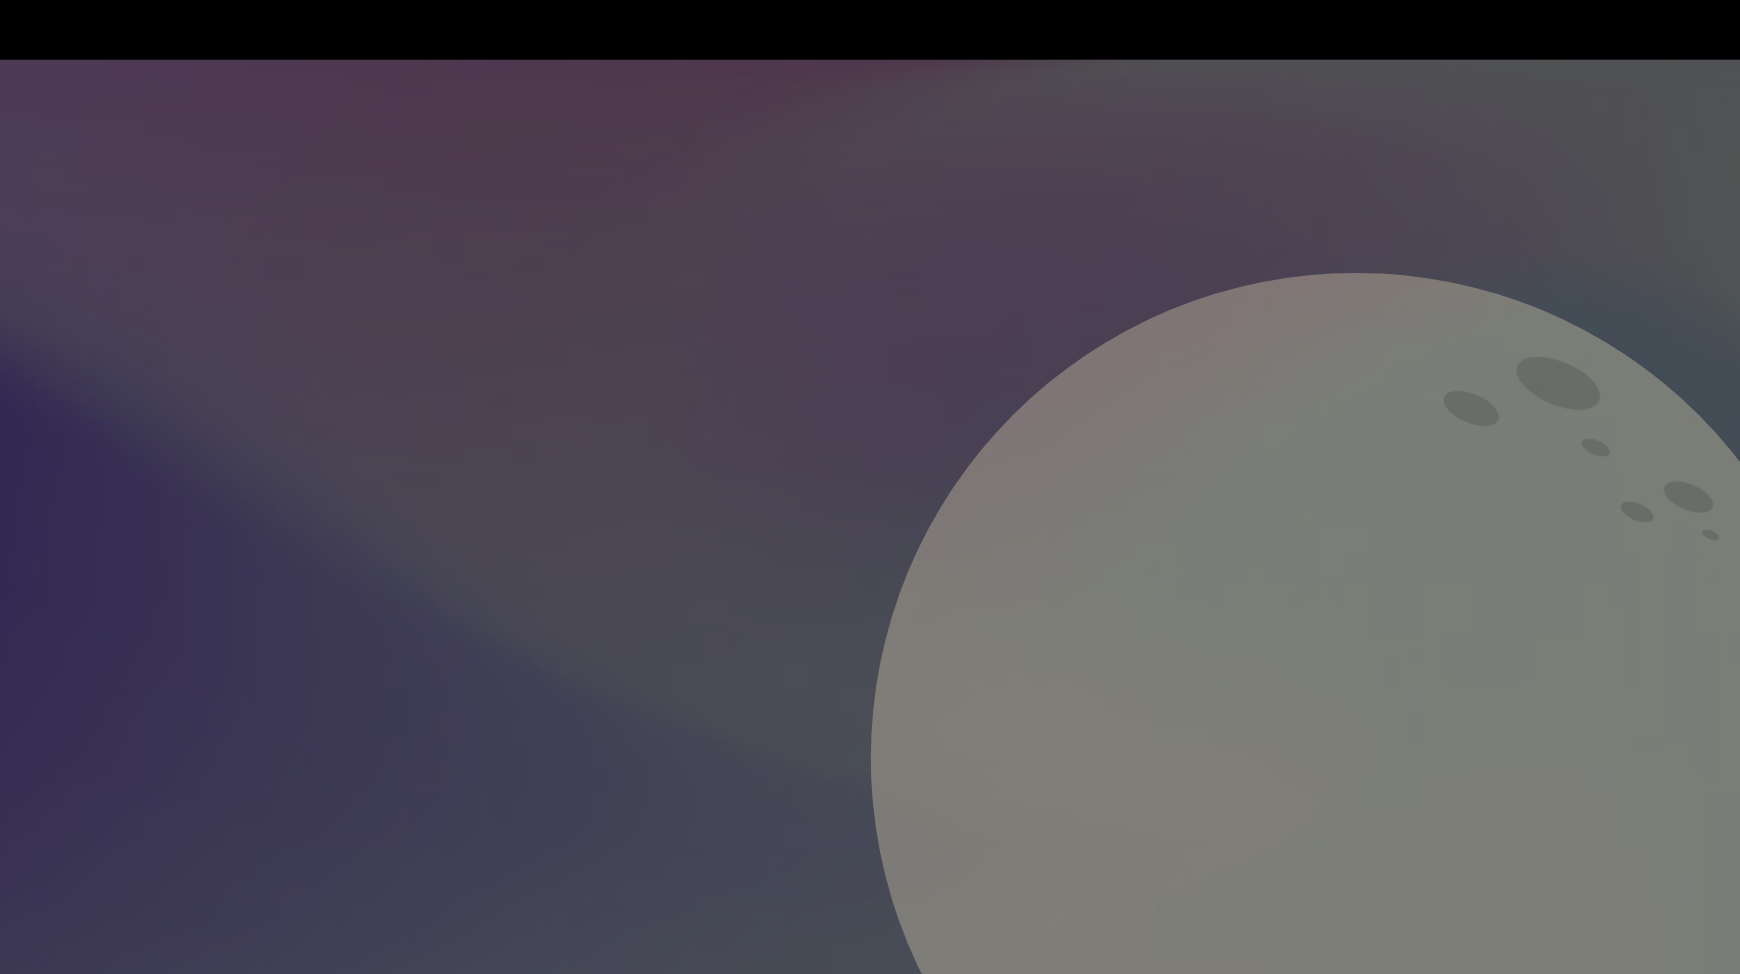
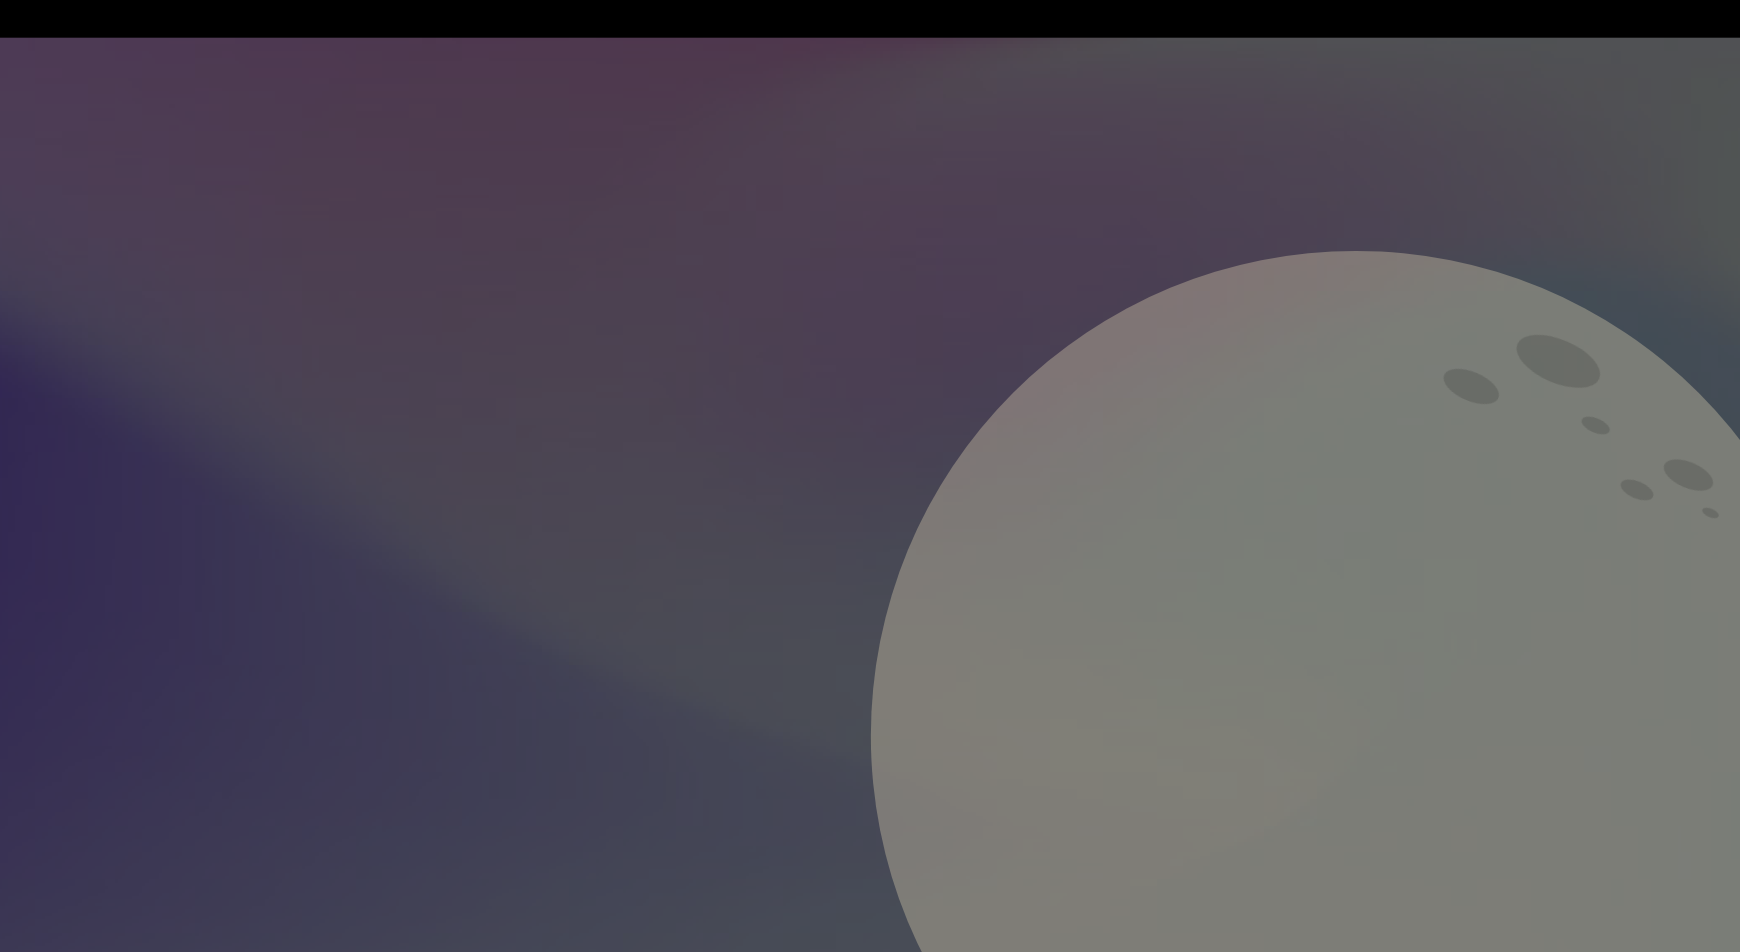
night mode done

diff --git a/index.html b/index.html
@@ -8,18 +8,19 @@
     <!-- Bootstrap CSS -->
     <link href="https://cdn.jsdelivr.net/npm/bootstrap@5.1.3/dist/css/bootstrap.min.css" rel="stylesheet" integrity="sha384-1BmE4kWBq78iYhFldvKuhfTAU6auU8tT94WrHftjDbrCEXSU1oBoqyl2QvZ6jIW3" crossorigin="anonymous">
     <link rel="stylesheet" href="./css/style.css">
+    <link rel="stylesheet" href="./css/night.css">
     <title>climate.xchange</title>
   </head>
   <body>
-    <div class="contianer-fluid dayHeroImage">
+    <div class="contianer-fluid dayHeroImage nightHeroImage">
     <!-- navBar -->
-        <div class="row dayNavBar text-center">
+        <div class="row dayNavBar nightNavBar text-center">
             <div class="col-2"></div>
             <div class="col-4 mt-2">
-                <h3 class="dayNavFont">climate.xchange</h3>
+                <h3 class="dayNavFont nightNavFont">climate.xchange</h3>
             </div>
             <div class="col-2 mt-2 d-flex justify-content-center zeroPadLR">
-                <input type="text" class="inputBox" placeholder="Search for a City">
+                <input type="text" class="inputBox nightinputBox" placeholder="Search for a City">
             </div>
             <div class="col-3 text-center mt-2">
                 <button type="button" class="btn searchBtn d-flex justify-content-center"><img src="./image/search.png" width="20px" alt="magnifying glass"></button>
@@ -29,72 +30,74 @@
         <div class="row bodyMT">
             <div class="col-3"></div>
             <div class="col-3">
-                <div class="card dayCard">
+                <div class="card dayCard nightCard">
                     <div class="card-body">
                         <div class="row" height="100px">
                             <div class="col-6">
-                                <h3>Modesto</h3>
+                                <h3 class="nightText">Modesto</h3>
                             </div>
                             <div class="col-6 d-flex justify-content-end">
-                                <img src="./image/heart.png" class="heart" alt="heart logo">
+                                <!-- <img src="./image/heart.png" class="heart" alt="heart logo"> -->
+                                <img src="./image/whiteHeart.png" class="heart" alt="white heart">
                             </div>
                         </div>
                         <div class="row ">
                             <div class="col-4">
-                                <img src="./image/sunny.png" height="90px" alt="sun logo">
+                                <!-- <img src="./image/sunny.png" height="90px" alt="sun logo"> -->
+                                <img src="./image/night.png" height="55px" alt=" moon logo">
                             </div>
                             <div class="col-8">
-                                <p class="dayMainTemp">54°F</p>
+                                <p class="dayMainTemp nightText">54°F</p>
                             </div>
                         </div>
                         <div class="row">
                             <div class="col-12 d-flex justify-content-center">
-                                <hr class="dayHr noMnoP"/>
+                                <hr class="dayHr nightHr noMnoP"/>
                             </div>
                         </div>
                         <div class="row">
                             <div class="col-6">
-                                <p>cloudy</p>
+                                <p class="nightText">cloudy</p>
                             </div>
                             <div class="col-3">
-                                <p class="d-flex justify-content-end">H:72°F</p>
+                                <p class="d-flex justify-content-end nightText">H:72°F</p>
                             </div>
                             <div class="col-3">
-                                <p class="d-flex justify-content-start">L:37°F</p>
+                                <p class="d-flex justify-content-start nightText">L:37°F</p>
                             </div>
                         </div>
                     </div>
                   </div>
             </div>
             <div class="col-3 ">
-                <div class="card dayCard">
+                <div class="card dayCard nightCard">
                     <div class="card-body">
                       <div class="row " height =" 100px">
                           <div class="col-6">
-                              <p>Today</p>
+                              <p class="nightText">Today</p>
                           </div>
                           <div class="col-6">
-                              <p class="d-flex justify-content-end">Time</p>
+                              <p class="d-flex justify-content-end nightText">Time</p>
                           </div>
                       </div>
                       <div class="row">
                           <div class="col-3">
-                              <p class="text-center">8am</p>
+                              <p class="text-center nightText">8am</p>
                               <img src="./image/sunny.png" height="55px" alt="sun logo">
-                              <p class="text-center secCardTemp">37°</p>
+                              <p class="text-center secCardTemp nightText">37°</p>
                           </div>
-                          <div class="col-1 dayLVDot"></div>
+                          <div class="col-1 dayLVDot nightLVDot"></div>
                           <div class="col-3">
-                              <p class="text-center">noon</p>
+                              <p class="text-center nightText">noon</p>
                               <img src="./image/cloudy.png" height="55px" alt="cloudy logo">
-                              <p class="text-center secCardTemp">58°</p>
+                              <p class="text-center secCardTemp nightText">58°</p>
 
                           </div>
-                          <div class="col-1 dayRVDot" ></div>
+                          <div class="col-1 dayRVDot nightRVDot" ></div>
                           <div class="col-3">
-                              <p class="text-center">8pm</p>
+                              <p class="text-center nightText">8pm</p>
                               <img src="./image/night.png" height="40px" alt="moon logo">
-                              <p class="text-center secCardTemp mt-3">44°</p>
+                              <p class="text-center secCardTemp mt-3 nightText">44°</p>
                           </div>
                       </div>
                       
@@ -109,23 +112,25 @@
             <div class="row mt-2">
                 <div class="col-3"></div>
                 <div class="col-6 d-flex justify-content-center fiveDayPad">
-                    <div class="card dayFiveForecast">
-                        <p class="text-center">Tue 12/8</p>
+                    <div class="card dayFiveForecast nightFiveForecast">
+                        <p class="text-center nightText">Tue 12/8</p>
                         <div class="d-flex justify-content-center">
-                            <img src="./image/rain.png" width="45px" height="45px" alt="">
+                            <!-- <img src="./image/rain.png" width="45px" height="45px" alt=""> -->
+                            <img src="./image/white rain.png" alt="">
                         </div>
-                        <div class="d-flex justify-content-center mt-2">
+                        <div class="d-flex justify-content-center mt-2 nightText">
                             <p>74°F</p>
                             <h6 class="linePad">|</h6>
                             <p>34°F</p>
                         </div>
                     </div>
-                    <div class="card dayFiveForecast">
-                        <p class="text-center">Wed 12/9</p>
+                    <div class="card dayFiveForecast nightFiveForecast">
+                        <p class="text-center nightText">Wed 12/9</p>
                         <div class="d-flex justify-content-center">
-                            <img src="./image/rain.png" width="45px" height="45px" alt="">
+                            <!-- <img src="./image/rain.png" width="45px" height="45px" alt=""> -->
+                            <img src="./image/white rain.png" alt="">
                         </div>
-                        <div class="d-flex justify-content-center mt-2">
+                        <div class="d-flex justify-content-center mt-2 nightText">
                             <p>74°F</p>
                             
                             
@@ -133,12 +138,13 @@
                             <p>34°F</p>
                         </div>
                     </div>
-                    <div class="card dayFiveForecast">
-                        <p class="text-center">Thur 12/10</p>
+                    <div class="card dayFiveForecast nightFiveForecast">
+                        <p class="text-center nightText">Thur 12/10</p>
                         <div class="d-flex justify-content-center">
-                            <img src="./image/rain.png" width="45px" height="45px" alt="">
+                            <!-- <img src="./image/rain.png" width="45px" height="45px" alt=""> -->
+                            <img src="./image/white rain.png" alt="">
                         </div>
-                        <div class="d-flex justify-content-center mt-2">
+                        <div class="d-flex justify-content-center mt-2 nightText">
                             <p>74°F</p>
                             <h6 class="linePad">|</h6>
                             <p>34°F</p>
@@ -146,23 +152,25 @@
                         
                         
                     </div>
-                    <div class="card dayFiveForecast">
-                        <p class="text-center">Fri 12/11</p>
+                    <div class="card dayFiveForecast nightFiveForecast">
+                        <p class="text-center nightText">Fri 12/11</p>
                         <div class="d-flex justify-content-center">
-                            <img src="./image/rain.png" width="45px" height="45px" alt="">
+                            <!-- <img src="./image/rain.png" width="45px" height="45px" alt=""> -->
+                            <img src="./image/white rain.png" alt="">
                         </div>
-                        <div class="d-flex justify-content-center mt-2">
+                        <div class="d-flex justify-content-center mt-2 nightText">
                             <p>74°F</p>
                             <h6 class="linePad">|</h6>
                             <p>34°F</p>
                         </div>
                     </div>
-                    <div class="card dayFiveForecast">
-                        <p class="text-center">Sat 12/12</p>
+                    <div class="card dayFiveForecast nightFiveForecast">
+                        <p class="text-center nightText">Sat 12/12</p>
                         <div class="d-flex justify-content-center">
-                            <img src="./image/rain.png" width="45px" height="45px" alt="">
+                            <!-- <img src="./image/rain.png" width="45px" height="45px" alt=""> -->
+                            <img src="./image/white rain.png" alt="">
                         </div>
-                        <div class="d-flex justify-content-center mt-2">
+                        <div class="d-flex justify-content-center mt-2 nightText">
                             <p>74°F</p>
                             <h6 class="linePad">|</h6>
                             <p>34°F</p>
@@ -178,7 +186,24 @@
             <div class="row mt-3">
                 <div class="col-4"></div>
                 <div class="col-4 d-flex justify-content-center">
-                    <button type="button" class="btn btn-light text-center dayFavLBtn"><h6 class="favBtnL favLText"> <img src="./image/greyHeart.png" alt="Grey Heart"> Open Your Favorite Places</h6></button>
+                      <button class="btn btn-light text-center dayFavLBtn nightFavLBtn" type="button" data-bs-toggle="offcanvas" data-bs-target="#offcanvasExample" aria-controls="offcanvasExample">
+                        <h6 class="favBtnL favLText nightText">
+                             <!-- <img src="./image/greyHeart.png" alt="Grey Heart"> -->
+                             <img src="./image/whiteHeart.png" height="17px" alt="white Heart">
+                              Open Your Favorite Places</h6>
+                      </button>
+                      
+                      <div class="offcanvas offcanvas-start" tabindex="-1" id="offcanvasExample" aria-labelledby="offcanvasExampleLabel">
+                        <div class="offcanvas-header">
+                          <h5 class="offcanvas-title" id="offcanvasExampleLabel">Your Favorite Cities</h5>
+                          <button type="button" class="btn-close text-reset" data-bs-dismiss="offcanvas" aria-label="Close"></button>
+                        </div>
+                        <div class="offcanvas-body">
+                          <div>
+                            
+                          </div>
+                        </div>
+                      </div>
                 </div>
                 <div class="col-4"></div>
             </div>

diff --git a/css/night.css b/css/night.css
@@ -1,0 +1,70 @@
+/* ---------Night--------- */
+.nightHeroImage{
+    background-image: url('../image/moon.png');
+    height: 100vh;
+    background-size: cover;
+}
+.nightNavBar{
+    background-color: #2F2F2F;
+    height: 6vh;
+}
+.nightNavFont{
+    color: white;
+}
+.nightinputBox{
+    width: 500%;
+    height: 30px;
+    border-radius: 5px;
+    border: none;
+    font-size: 9px;
+    padding-left: 12px;
+}
+.nightCard{
+    background-color: #2F2F2F;
+    min-height: 250px;
+    max-height: auto;
+    border-radius: 18px;
+    padding-left: 10px;
+    padding-right: 10px;
+}
+.nightText{
+    color: white;
+}
+
+.nightHr {
+    border:none;
+    border-top:3px dotted #c7c5c5;
+    color:#fff;
+    background-color:#2F2F2F;
+    height:1px;
+    width:100%;
+  }
+  .nightLVDot
+  {
+    border-left: 3px dotted #c7c5c5;
+    color: #fff;
+    background-color:#2F2F2F;
+    height: 150px;
+  }
+  .nightRVDot
+  {
+    border-right: 3px dotted #c7c5c5;
+    color:#fff;
+    background-color:#2F2F2F;
+    height: 150px;
+  }
+  .nightFiveForecast{
+    border-radius: 10px;
+    margin-left: 8px;
+    
+    width: 150px;
+    background-color: rgba(18.4%, 18.4%, 18.4%, 0.39);
+    
+}
+
+.nightFavLBtn{
+    background-color: rgba(18.4%, 18.4%, 18.4%);
+    border: none;
+    border-radius: 10px;
+    width: 325px;
+}

diff --git a/css/style.css b/css/style.css
@@ -20,28 +20,28 @@
     padding-left: 10px;
     padding-right: 10px;
 }
-.dayHr {
+/* .dayHr {
   border:none;
   border-top:3px dotted #110c0c;
   color:#fff;
   background-color:#fff;
   height:1px;
   width:100%;
-}
-.dayLVDot
+} */
+/* .dayLVDot
 {
   border-left: 3px dotted #c7c5c5;
   color:#fff;
   background-color:#fff;
   height: 150px;
-}
-.dayRVDot
+} */
+/* .dayRVDot
 {
   border-right: 3px dotted #c7c5c5;
   color:#fff;
   background-color:#fff;
   height: 150px;
-}
+} */
 .dayMainTemp{
     font-size: 4.2rem;
 }
@@ -113,7 +113,7 @@
     width: 40px;
     margin-left: 5px;
 }
-.inputBox{
+/* .inputBox{
     width: 500%;
     height: 30px;
     border-radius: 5px;
@@ -121,20 +121,11 @@
     box-shadow:  0 0 10px #d1cccc;
     font-size: 9px;
     padding-left: 12px;
-}
+} */
 .zeroPadLR{
     padding-left: 0%;
     padding-right: 0%;
 }
 .bodyMT{
     margin-top: 35px;
-}
-
-
-
-
-/* ---------Night--------- */
-.nightHeroImage{
-    background-image: url('../image/moon.png');
-    height: 100vh;
 }
